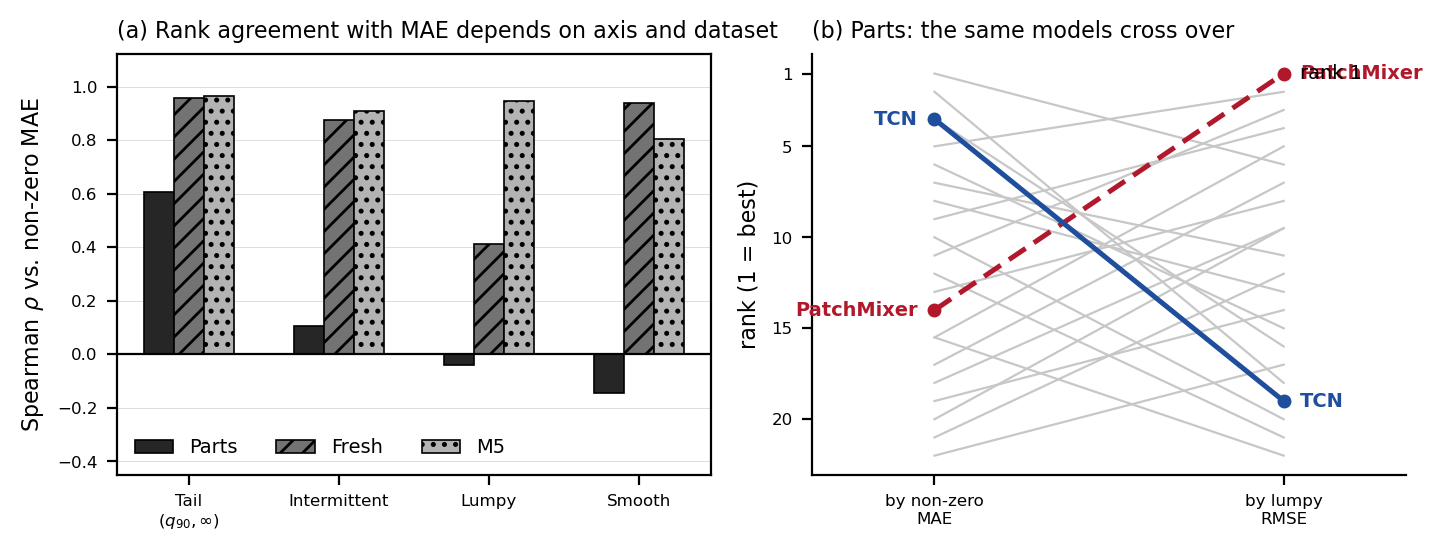
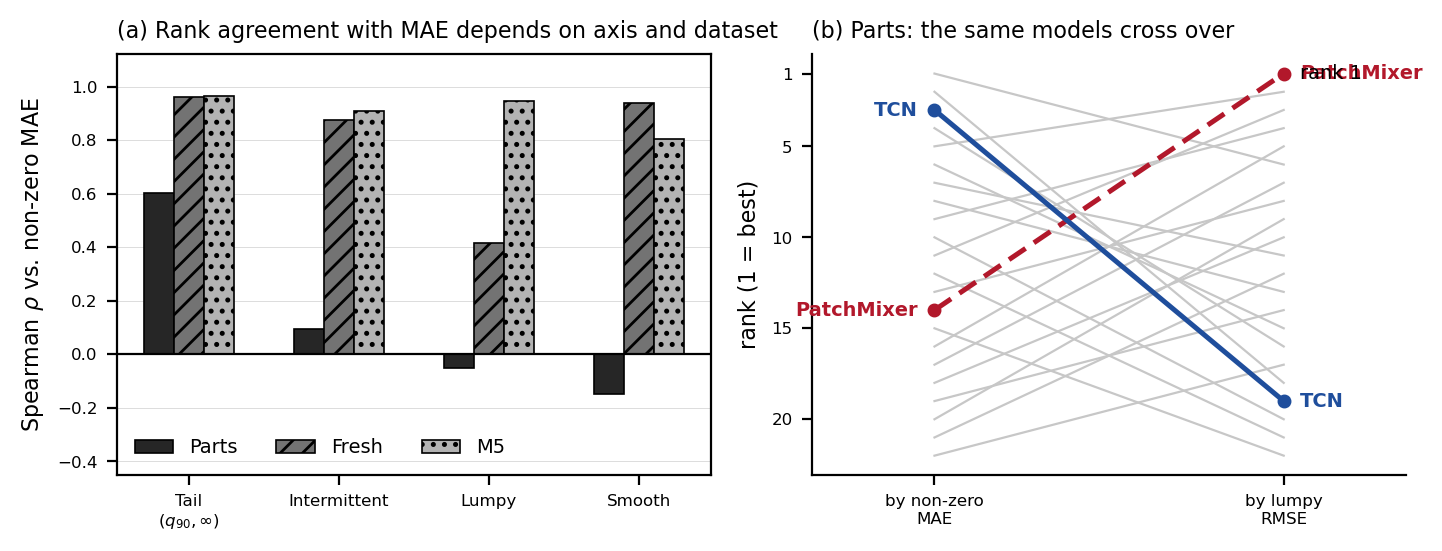
Read full-precision pooled metrics in the rank analysis and the figure (3-decimal tables created spurious ties that shifted Spearman rho and one movement count)

diff --git a/analysis/make_fig_reorder_unified.py b/analysis/make_fig_reorder_unified.py
@@ -1,4 +1,4 @@
-import csv, math, itertools
+import csv, math, itertools, json
 import matplotlib
 matplotlib.use('Agg')
 import matplotlib
@@ -10,6 +10,7 @@ import os as _os
 _BUNDLE=_os.path.dirname(_os.path.dirname(_os.path.abspath(__file__)))
 _TABLES=_os.environ.get('TABLES_DIR', _os.path.join(_BUNDLE,'tables'))
 _RESULTS=_os.environ.get('RESULTS_DIR', _os.path.join(_BUNDLE,'results'))
+POOLED=_os.environ.get('POOLED_DIR', _os.path.join(_BUNDLE,'metrics','pooled'))
 _os.makedirs(_RESULTS, exist_ok=True)
 FILES={'Parts':_os.path.join(_TABLES,'parts_unified.csv'),
        'Fresh':_os.path.join(_TABLES,'fresh_retail_unified.csv'),
@@ -17,6 +18,59 @@ FILES={'Parts':_os.path.join(_TABLES,'parts_unified.csv'),
 AXES=['(q90, ∞) RMSE','intermittent RMSE','lumpy RMSE','smooth RMSE']
 LABEL={'(q90, ∞) RMSE':'Tail\n$(q_{90},\\infty)$','intermittent RMSE':'Intermittent',
        'lumpy RMSE':'Lumpy','smooth RMSE':'Smooth'}
+
+# ---- full-precision inputs -------------------------------------------------
+# tables/*_unified.csv is rounded to three decimals, which creates spurious ties (two models whose
+# non-zero MAE rounds to the same value) and average ranks then shift by half a position -- enough
+# to flip a "moved five or more places" count and to pull Spearman correlations towards zero.
+# metrics/pooled/ carries the unrounded values, so it is preferred when present; the CSVs in
+# tables/ remain the fallback and keep this script runnable from the tables alone.
+POOLED = _os.environ.get('POOLED_DIR', _os.path.join(_BUNDLE, 'metrics', 'pooled'))
+_SEG_ORDER = ['[0, q10] RMSE', '(q10, q25] RMSE', '(q25, q50] RMSE',
+              '(q50, q75] RMSE', '(q75, q90] RMSE', '(q90, \u221e) RMSE']
+_AXES_JSON = ['QL(0.5)', 'Precision', 'Recall', 'F1 score', 'MAE', 'RMSE',
+              'intermittent RMSE', 'lumpy RMSE', 'smooth RMSE', 'erratic RMSE']
+_KEY = {'QL(0.5)': 'QL(0.5)', 'Precision': '0Precision(c=0.5)', 'Recall': '0Recall(c=0.5)',
+        'F1 score': '0F1(c=0.5)', 'MAE': 'MAE_nonzero', 'RMSE': 'RMSE_nonzero',
+        'intermittent RMSE': 'NT_Intermittent RMSE', 'lumpy RMSE': 'NT_Lumpy RMSE',
+        'smooth RMSE': 'NT_Smooth RMSE', 'erratic RMSE': 'NT_Erratic RMSE'}
+
+
+def load_pooled(dsdir):
+    """Full-precision rows from metrics/pooled/<dataset>/*.json (untruncated point metrics and
+    the c=0.5 zero-detection metrics, i.e. exactly the convention the paper reports)."""
+    files = {}
+    for f in sorted(_os.listdir(dsdir)):
+        if f.endswith('.json'):
+            with open(_os.path.join(dsdir, f)) as fh:
+                files[f[:-5]] = json.load(fh)
+    if not files:
+        return {}
+    segs = sorted({k for d in files.values() for k in d if k.startswith('NT_Seg')},
+                  key=lambda s: int(s[6:].split('_')[0]))
+    key = dict(_KEY)
+    for i, c in enumerate(_SEG_ORDER):
+        key[c] = segs[i] if i < len(segs) else None
+    D = {}
+    for m, d in files.items():
+        row = {}
+        for c in _AXES_JSON + _SEG_ORDER:
+            k = key.get(c)
+            v = d.get(k) if k else None
+            row[c] = float('nan') if v is None else float(v)
+        D[m] = row
+    return D
+
+
+def dataset_of(path):
+    base = _os.path.basename(path)
+    return 'fresh_retail' if 'fresh' in base else ('m5' if base.startswith('m5') else 'parts')
+
+
+def load_any(path):
+    pd = _os.path.join(POOLED, dataset_of(path))
+    return load_pooled(pd) if _os.path.isdir(pd) else None
+
 def num(s):
     try: return float(s.strip())
     except ValueError: return float('nan')
@@ -36,13 +90,15 @@ def pear(a,b):
 
 DATA={}
 for ds,f in FILES.items():
-    rows=list(csv.reader(open(f,encoding='utf-8-sig')))
-    hdr=[c.strip() for c in rows[1]]
-    idx={c:hdr.index(c) for c in ['MAE']+AXES}
-    D={}
-    for r in rows[2:]:
-        if len(r)<2 or not r[1].strip() or '(\u03c4=0.5)' in r[1]: continue   # untruncated rows = ranking reference
-        D[r[1].strip()]={c:num(r[idx[c]]) for c in idx}
+    D=load_any(f)                                    # full precision when metrics/pooled/ exists
+    if D is None:
+        rows=list(csv.reader(open(f,encoding='utf-8-sig')))
+        hdr=[c.strip() for c in rows[1]]
+        idx={c:hdr.index(c) for c in ['MAE']+AXES}
+        D={}
+        for r in rows[2:]:
+            if len(r)<2 or not r[1].strip() or '(\u03c4=0.5)' in r[1]: continue   # untruncated = reference
+            D[r[1].strip()]={c:num(r[idx[c]]) for c in idx}
     DATA[ds]=D
 
 fig,axes=plt.subplots(1,2,figsize=(7.4,2.9))

diff --git a/analysis/rank_analysis.py b/analysis/rank_analysis.py
@@ -7,7 +7,7 @@ Writes .scratch/unify/rank_analysis_<tag>.txt and prints the same report.
 Rows used are the TRUNCATED (tau=0.5) rows, i.e. the c=0.5 variant, matching the
 published analysis; the reference axis is the non-zero MAE column.
 """
-import csv, sys, math, os
+import csv, sys, math, os, json
 from itertools import combinations
 
 BUNDLE = os.path.dirname(os.path.dirname(os.path.abspath(__file__)))
@@ -17,6 +17,59 @@ AXES = ['QL(0.5)', 'Precision', 'Recall', 'F1 score', 'MAE', 'RMSE', '[0, q10] R
         '(q10, q25] RMSE', '(q25, q50] RMSE', '(q50, q75] RMSE', '(q75, q90] RMSE',
         '(q90, ∞) RMSE', 'intermittent RMSE', 'lumpy RMSE', 'smooth RMSE', 'erratic RMSE']
 
+
+
+# ---- full-precision inputs -------------------------------------------------
+# tables/*_unified.csv is rounded to three decimals, which creates spurious ties (two models whose
+# non-zero MAE rounds to the same value) and average ranks then shift by half a position -- enough
+# to flip a "moved five or more places" count and to pull Spearman correlations towards zero.
+# metrics/pooled/ carries the unrounded values, so it is preferred when present; the CSVs in
+# tables/ remain the fallback and keep this script runnable from the tables alone.
+POOLED = os.environ.get('POOLED_DIR', os.path.join(BUNDLE, 'metrics', 'pooled'))
+_SEG_ORDER = ['[0, q10] RMSE', '(q10, q25] RMSE', '(q25, q50] RMSE',
+              '(q50, q75] RMSE', '(q75, q90] RMSE', '(q90, \u221e) RMSE']
+_AXES_JSON = ['QL(0.5)', 'Precision', 'Recall', 'F1 score', 'MAE', 'RMSE',
+              'intermittent RMSE', 'lumpy RMSE', 'smooth RMSE', 'erratic RMSE']
+_KEY = {'QL(0.5)': 'QL(0.5)', 'Precision': '0Precision(c=0.5)', 'Recall': '0Recall(c=0.5)',
+        'F1 score': '0F1(c=0.5)', 'MAE': 'MAE_nonzero', 'RMSE': 'RMSE_nonzero',
+        'intermittent RMSE': 'NT_Intermittent RMSE', 'lumpy RMSE': 'NT_Lumpy RMSE',
+        'smooth RMSE': 'NT_Smooth RMSE', 'erratic RMSE': 'NT_Erratic RMSE'}
+
+
+def load_pooled(dsdir):
+    """Full-precision rows from metrics/pooled/<dataset>/*.json (untruncated point metrics and
+    the c=0.5 zero-detection metrics, i.e. exactly the convention the paper reports)."""
+    files = {}
+    for f in sorted(os.listdir(dsdir)):
+        if f.endswith('.json'):
+            with open(os.path.join(dsdir, f)) as fh:
+                files[f[:-5]] = json.load(fh)
+    if not files:
+        return {}
+    segs = sorted({k for d in files.values() for k in d if k.startswith('NT_Seg')},
+                  key=lambda s: int(s[6:].split('_')[0]))
+    key = dict(_KEY)
+    for i, c in enumerate(_SEG_ORDER):
+        key[c] = segs[i] if i < len(segs) else None
+    D = {}
+    for m, d in files.items():
+        row = {}
+        for c in _AXES_JSON + _SEG_ORDER:
+            k = key.get(c)
+            v = d.get(k) if k else None
+            row[c] = float('nan') if v is None else float(v)
+        D[m] = row
+    return D
+
+
+def dataset_of(path):
+    base = os.path.basename(path)
+    return 'fresh_retail' if 'fresh' in base else ('m5' if base.startswith('m5') else 'parts')
+
+
+def load_any(path):
+    pd = os.path.join(POOLED, dataset_of(path))
+    return load_pooled(pd) if os.path.isdir(pd) else None
 
 def num(s):
     try:
@@ -86,7 +139,9 @@ def main():
         print(s); out.append(s)
     sets = {}
     for f in files:
-        D = load(f)
+        D = load_any(f)
+        if D is None:
+            D = load(f)
         sets[os.path.basename(f).replace(' - Sheet1.csv', '').replace('_unified.csv', '')] = D
     p('=' * 92)
     p('A. active columns (a column counts as active if at least one model has a value)')
